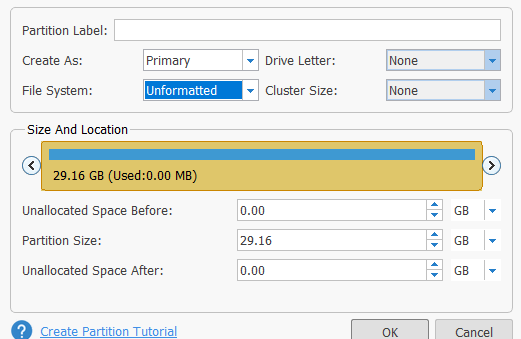
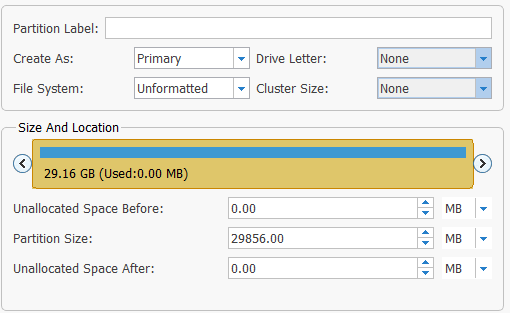
Touch-ups for emummc partitioning (Windows). -Fix numerous style issues. -Add a couple clarifications that may not be immediately obvious from the screenshots. -Update screenshots to be more consistent with a 128GB SD card. -Suggest an initial 8GB partition size for the FAT32 partition to avoid conf

diff --git a/docs/user_guide/emummc/partitioning_sd.md b/docs/user_guide/emummc/partitioning_sd.md
@@ -14,42 +14,48 @@
 ## Windows Instructions
 
 !!!tip "What you need (Windows)"
-	- [Minitool partition wizard (or any other good partition manager)](https://www.partitionwizard.com/download/v11/pw11-free.exe)
+	- [MiniTool Partition Wizard (or any other good partition manager)](https://www.partitionwizard.com/download/v11/pw11-free.exe)
 
 
 ### Instructions (Windows)
 
-1. Install and open minitool partition wizard
-2. Go into the `Disk & Partition Management`
-3. Find your SD card and delete the volume on it by right clicking on the partition and pressing delete (This will delete all your data on your sd card!)
+1. Install and open MiniTool Partition Wizard.
+2. Click the `Disk & Partition Management` button.
+3. Find your SD card and delete the volume on it by right clicking on the partition and pressing delete (This will delete all your data on your SD card!)
 4. Create a new partition by right clicking on the unallocated space and then pressing `Create` with the following instructions:
-	- Set metrics on the right of `Unallocated Space Before` and `Unallocated Space After` to MB if it's set to GB
-	- Set the `File System` to FAT32
-	- Set the `Partition Label` to `SD`
-	- Set the partition size to `16.00`
-	- Set the `Unallocated Space After` to `29872`
-	- Drag the left arrow of the partition completely to the left, filling all the space to the left
-	- Set the `Unallocated Space Before` to 16 
-
+	- Set the metrics on the right of `Unallocated Space Before` and `Unallocated Space After` to `MB` if it's set to `GB`.
+	- Set the metrics on the right of `Partition Size` to `GB` if it's set to `MB`.
+	- Set the `File System` to `FAT32`.
+	- Set the `Partition Label` to `SD`.
+	- Set the `Partition Size` to `8.00`.
+	- Set the `Unallocated Space After` to `29872`.
+	- Drag the left arrow of the partition completely to the left, filling all the space to the left.
+	- Set the `Unallocated Space Before` to `16`.
+	- If done correctly, the `Unallocated Space After` should now display as `29856` instead of `29872`.
 
 		![Create_SD_partition](../img/minitool1.png)
 
 
 
+	- The final `Partition Size` of the FAT32 partition will vary depending on your SD card's total size.
+
 5. Create another new partition with the following settings:
-	- Ignore the warning about windows not being able to recognize the partition
-	- If it doesn't use the full space yet, make this partition fill the rest of the space
-	- Set the file system to `Unformatted`
-  
+	- Ignore the warning about Windows not being able to recognize the partition.
+	- Set the `File System` to `Unformatted`.
+	- Set the metrics on the right of `Unallocated Space Before`, `Partition Size`, and `Unallocated Space After` from `GB` to `MB`.
+	- `Unallocated Space Before` should display as 0MB.
+	- `Partition Size` should display as `29856 MB`.
+	- `Unallocated Space After` should display as 0MB.
+
 
 		![Create_emummc_partition](../img/minitool2.png)
 
 
-6. Your sd card now should look something like this:
+6. Your SD card now should look similar to this:
    
 	![SD_format](../img/emummc_final_minitool.png)
 
-7. Apply the changes to your sd card by hitting apply in the top left
+7. Apply the changes to your SD card by hitting `Apply` in the top left.
 
 &nbsp;
 
